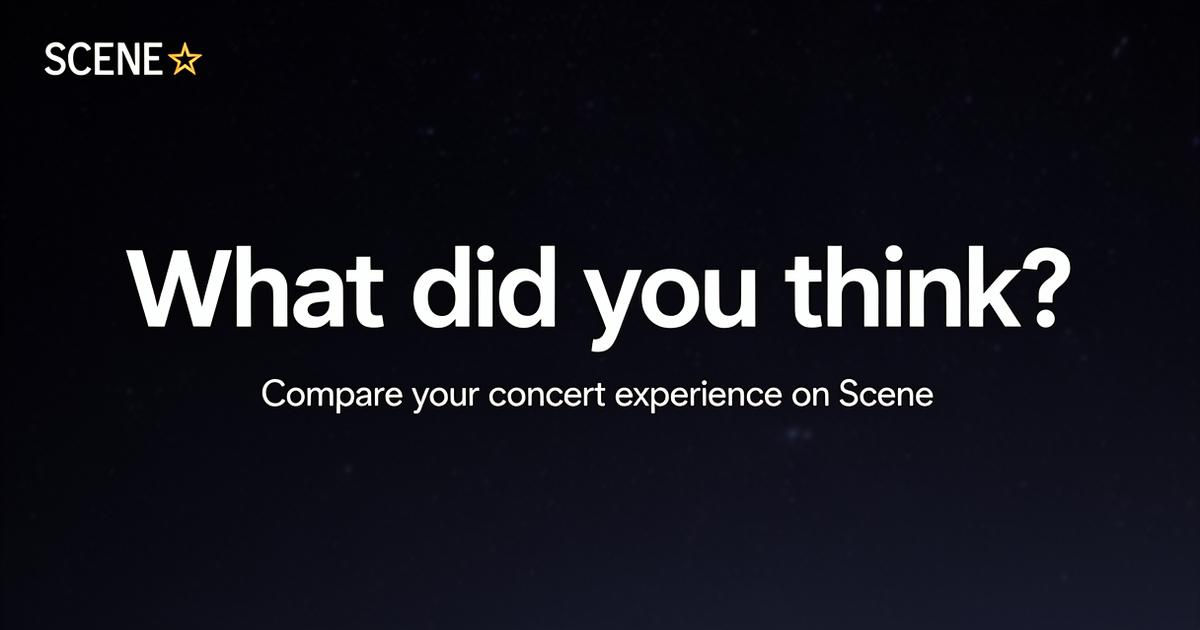
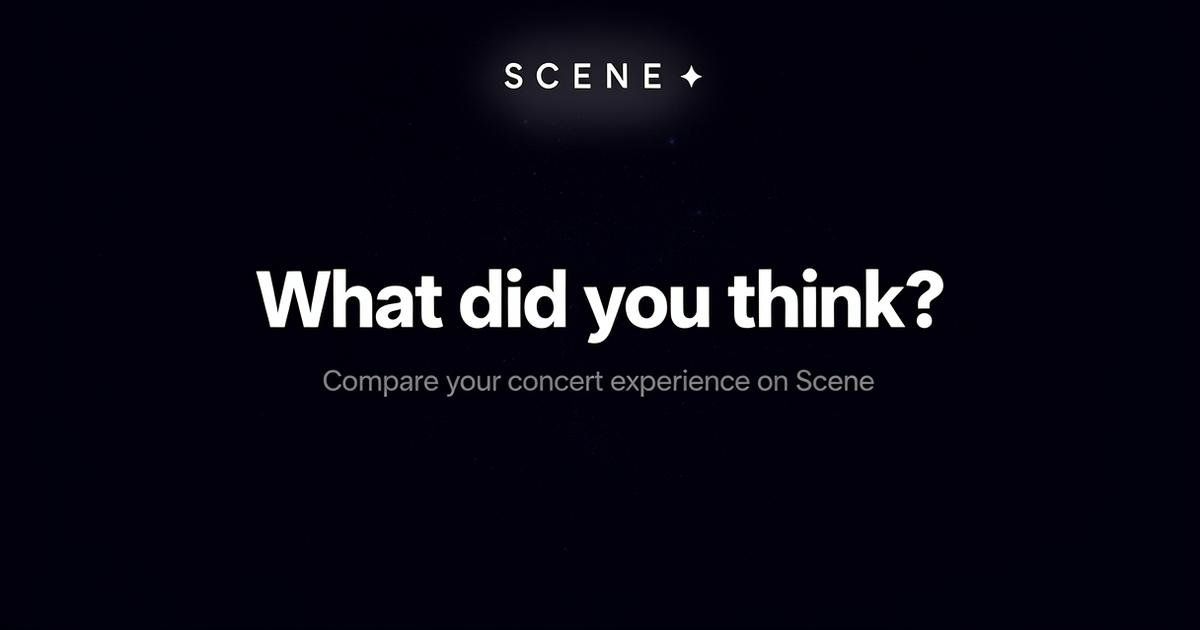
Changes

diff --git a/index.html b/index.html
@@ -19,7 +19,7 @@
     <meta property="og:type" content="website" />
     <meta property="og:url" content="https://tryscene.app/" />
     <meta property="og:site_name" content="Scene" />
-    <meta property="og:title" content="Compare show notes on Scene" />
+    <meta property="og:title" content="Compare your concert experience on Scene" />
     <meta property="og:description" content="Someone wants to compare their concert experience with yours. Log your take and see how it stacks up." />
     <meta property="og:image" content="https://myscene.lovable.app/images/scene-compare-og.png" />
     <meta property="og:image:width" content="1200" />
@@ -28,7 +28,7 @@
     <!-- Twitter / X -->
     <meta name="twitter:card" content="summary_large_image" />
     <meta name="twitter:site" content="@trysceneapp" />
-    <meta name="twitter:title" content="Compare show notes on Scene" />
+    <meta name="twitter:title" content="Compare your concert experience on Scene" />
     <meta name="twitter:description" content="Someone wants to compare their concert experience with yours. Log your take and see how it stacks up." />
     <meta name="twitter:image" content="https://myscene.lovable.app/images/scene-compare-og.png" />
   </head>
